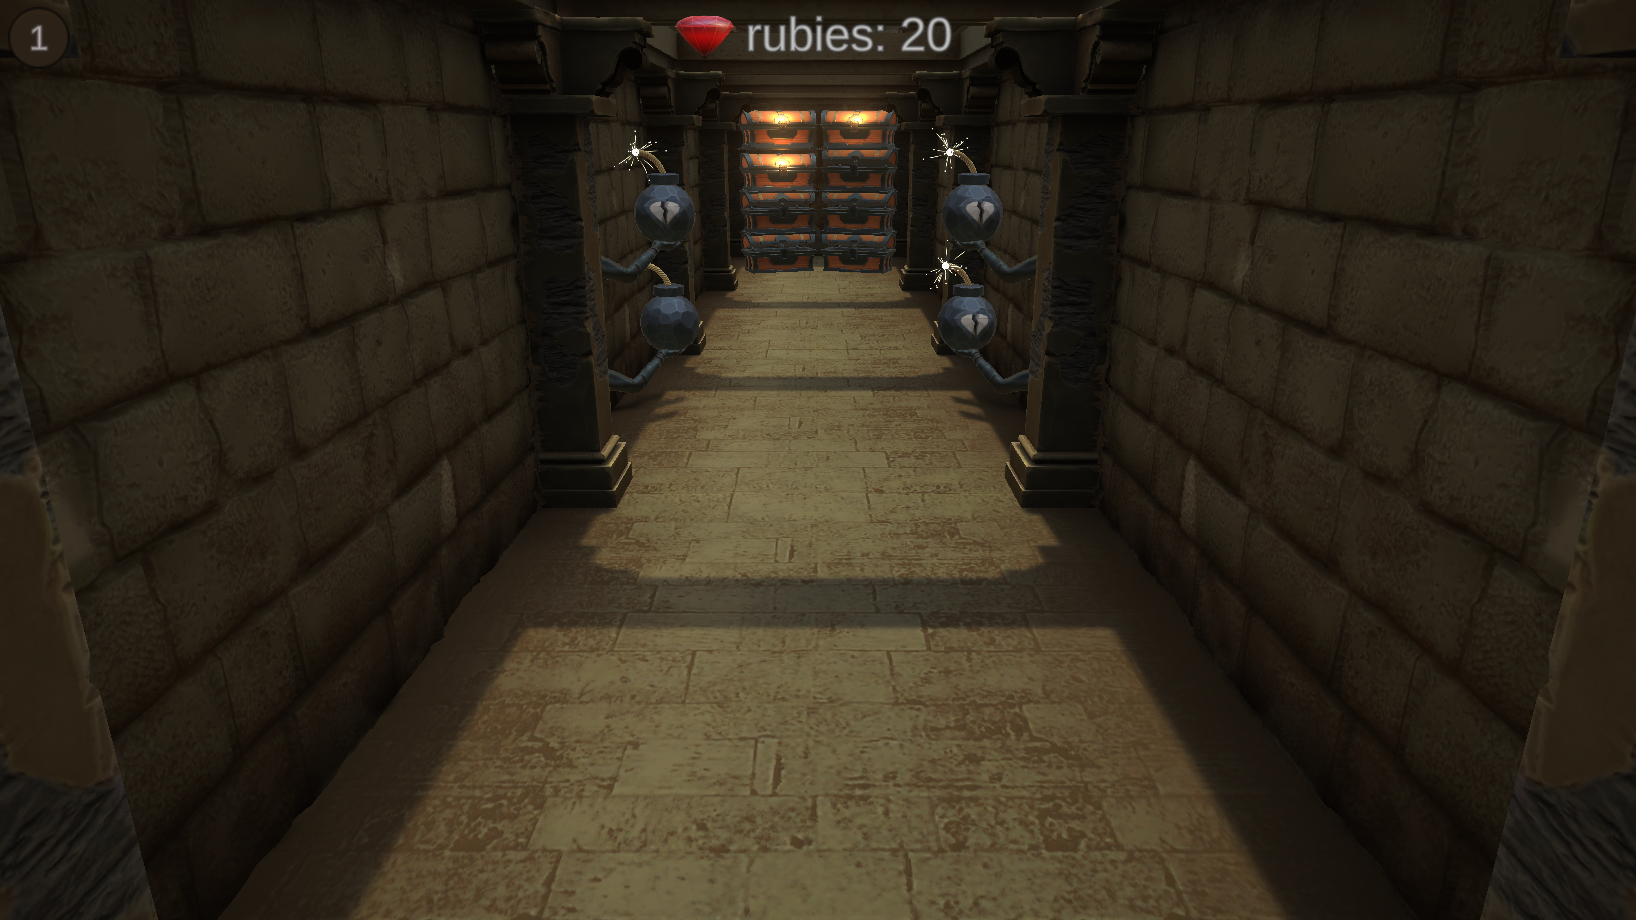
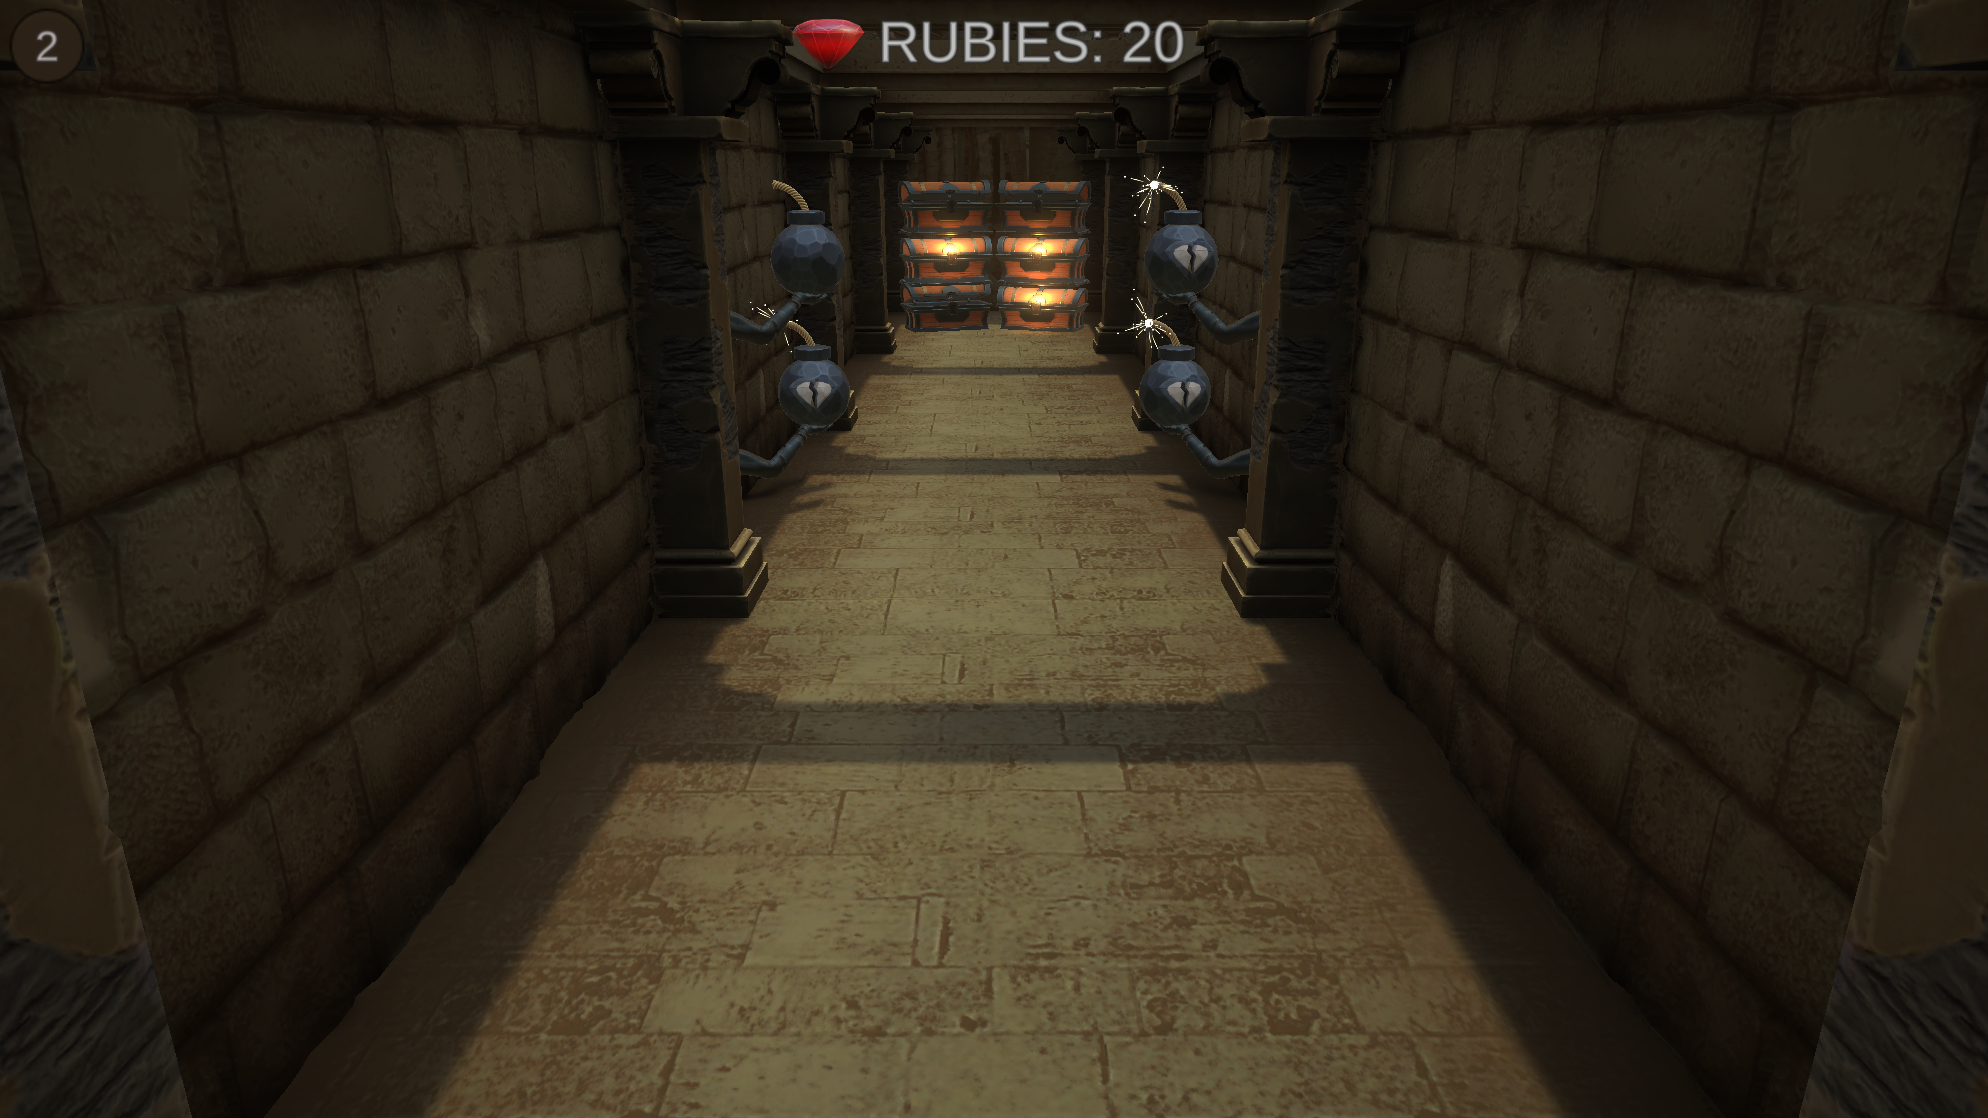
Weekly update
New algorithm for randomizing events
New JSON:
+ time_for_decision
+ cost_for_no_decision
+ minimum_error
+ goal_description
- allowed_error_from_target_ratio
- rubies_goal
- real_reward

diff --git a/NeuroPaceUnityProject/Assets/Scripts/GameBrain.cs b/NeuroPaceUnityProject/Assets/Scripts/GameBrain.cs
@@ -82,9 +82,9 @@ public class GameBrain : MonoBehaviour
 
     private int rubies = 20;
     public int trials_count = 0;
-    public int trials_where_player_went_forward = 0;
-    public int trials_that_exploded_so_far = 0;
-    public int trials_that_rewarded_so_far = 0;
+    public int trials_performed = 0;
+    public int explosions_performed = 0;
+    public int keys_performed = 0;
     private float explosion_avg_chance = 0;
     private float key_avg_chance = 0;
 
@@ -214,10 +214,10 @@ public class GameBrain : MonoBehaviour
                 SaveTimestamp(2);
                 animatorCam.SetTrigger("try");
                 ui.printDescription("");
-                trials_where_player_went_forward += 1;
+                trials_performed += 1;
                 actionWalk.Play();
                 decision = 1;
-                //ScreenCapture.CaptureScreenshot("SomeLevel.png", 2);
+                ScreenCapture.CaptureScreenshot("SomeLevel2.png", 2);
             }
             else if (Keyboard.current.rightArrowKey.isPressed || (Gamepad.current != null && Gamepad.current.bButton.isPressed))
             {
@@ -247,19 +247,17 @@ public class GameBrain : MonoBehaviour
                 trials_where_zero_bombs_lit += 1;
         }
         trials_count = game_params.trial_types.Count * game_params.game_settings.number_of_trials_per_trial_type;
-        //explosion_avg_chance = (float)game_params.game_settings.trials_to_explode / (float)(trials_count - (trials_where_zero_bombs_lit * game_params.game_settings.number_of_trials_per_trial_type));
-        //key_avg_chance = (float)game_params.game_settings.trials_to_show_key / (float)(trials_count - game_params.game_settings.trials_to_explode);
-        explosion_avg_chance = (float)game_params.game_settings.trials_to_explode / (float)(trials_count - (trials_where_zero_bombs_lit * game_params.game_settings.number_of_trials_per_trial_type));
+        explosion_avg_chance = (float)game_params.game_settings.trials_to_explode / (float)(trials_count);
         key_avg_chance = (float)game_params.game_settings.trials_to_show_key / (float)(trials_count - game_params.game_settings.trials_to_explode);
         Debug.Log("Params Loaded");
-
+        /*
         string output = "";
         output += $"\nexplosion_avg_chance: {explosion_avg_chance}, key_avg_chance: {key_avg_chance}";
         output += $"\nall: {trials_count}, to explode: {game_params.game_settings.trials_to_explode}, to reward: {game_params.game_settings.trials_to_show_key}";
         for (int i = 0; i < 5; i++)
             output += "\n" + DebugChances();
         Debug.Log(output);
-            
+        */
     }
 
     private string DebugChances()
@@ -269,12 +267,12 @@ public class GameBrain : MonoBehaviour
         int rewarded = 0;
         for(int i=0; i<trials_count; i++)
         {
+            float phase = (float)i / (trials_count - 1);
             TrialType this_trial = trials_pool[i];
-            if (this_trial.bombs_lit != 0 && PlayEvent(explosion_avg_chance, i, exploded)) exploded += 1;
-            else if (PlayEvent(key_avg_chance, i, rewarded))
-            {
+            if (this_trial.bombs_lit != 0 && PlayEvent2(phase, explosion_avg_chance, i, exploded, game_params.game_settings.trials_to_explode))
+                exploded += 1;
+            else if (PlayEvent2(phase, key_avg_chance, i, rewarded, game_params.game_settings.trials_to_show_key))
                 rewarded += 1;
-            }
         }
         return $"DEBUG: trials: {trials_count}, exploded: {exploded}, rewarded: {rewarded}";
     }
@@ -287,7 +285,7 @@ public class GameBrain : MonoBehaviour
         current_trial = -1;
         // start camera
         animatorCam.SetFloat("mul", 1);
-        NewRound();        
+        NewRound();
     }
 
     private void NewRound()
@@ -349,23 +347,18 @@ public class GameBrain : MonoBehaviour
 
     public void CheckBombs()
     {
-        if (current_trial_type.bombs_lit != 0 && PlayEvent(explosion_avg_chance, trials_where_player_went_forward, trials_that_exploded_so_far))
+        float phase = (float)current_trial / (trials_count - 1);
+        if (current_trial_type.bombs_lit != 0 && PlayEvent2(phase, explosion_avg_chance, trials_performed, explosions_performed, game_params.game_settings.trials_to_explode))
         {
             //Debug.Log("Boom!");
-
-            trials_that_exploded_so_far += 1;
+            explosions_performed += 1;
             animatorCam.Play("CameraExplode", 0, 0f);
             outcome = -current_trial_type.bombs_lit * game_params.game_settings.cost_for_bomb_explosion;
             rubies += outcome;
             ui.rubiesTarget = rubies;
             string desc = (Mathf.Abs(outcome) == 1) ? " RUBY!" : " RUBIES!";
             ui.printInfo(outcome + desc);
-            /*
-            foreach (GameObject bomb in bombsAll)
-            {
-                foreach(ParticleSystem ps in bomb.GetComponentsInChildren<ParticleSystem>())
-                    ps.Play();
-            }*/
+
             for (int i = 0; i < Mathf.Abs(outcome); i++)
                 Instantiate(RubyLost, rubiesUIParent);
             bombParent.GetComponent<AudioSource>().Play();
@@ -380,13 +373,13 @@ public class GameBrain : MonoBehaviour
         foreach (GameObject chest in chestsLit)
         {
             chest.GetComponent<Animator>().SetTrigger("open");
-            //chest.GetComponent<ParticleSystem>().Play();
         }
 
-        if (PlayEvent(key_avg_chance, trials_where_player_went_forward, trials_that_rewarded_so_far))
+        float phase = (float)current_trial / (trials_count - 1);
+        if (PlayEvent2(phase, key_avg_chance, trials_performed, keys_performed, game_params.game_settings.trials_to_show_key))
         {
             //Debug.Log("Rubies!");
-            trials_that_rewarded_so_far += 1;
+            keys_performed += 1;
             outcome = current_trial_type.chests_lit * game_params.game_settings.reward_for_chest;
             rubies += outcome;
             ui.rubiesTarget = rubies;
@@ -410,18 +403,19 @@ public class GameBrain : MonoBehaviour
             GameObject.Destroy(rubiesUIParent.GetChild(i).gameObject);
     }
 
-    public bool PlayEvent(float event_avg_chance, float trials_where_player_went_forward, float events_that_played_so_far)
-    {        
-        float a = Mathf.Abs((events_that_played_so_far + 1) / ((float)trials_where_player_went_forward) - event_avg_chance);
-        float b = Mathf.Abs((events_that_played_so_far    ) / ((float)trials_where_player_went_forward) - event_avg_chance);
-        float t = ((float)current_trial) / ((float)trials_count - 1);
-        float epsilon = Mathf.Lerp(game_params.game_settings.allowed_error_from_target_ratio[0], game_params.game_settings.allowed_error_from_target_ratio[1], t);
-        //Debug.Log("x: " + a.ToString() + " y: " + b.ToString() + " t: " + t + " epsilon: " + epsilon.ToString());
+    public bool PlayEvent2(float phase, float event_avg_chance, int trials_performed, int events_performed, int events_expected) 
+    {
+        //Debug.Log($"{phase} {event_avg_chance} {trials_performed} {events_performed} {events_expected}");
+        float interpolated_chance = event_avg_chance;
+        float designed_events_count = phase * events_expected;
+        float ratio = designed_events_count / (events_performed + 1);
 
-        if (Mathf.Abs(a - b) > epsilon)
-            return Random.value > 0.5f;
-        else
-            return a < b;
+        if (ratio > 1)
+            interpolated_chance = Mathf.Lerp(event_avg_chance, 1 - game_params.game_settings.minimum_error, ratio);
+        else if (ratio < 1)
+            interpolated_chance = Mathf.Lerp(event_avg_chance, game_params.game_settings.minimum_error, 1 - ratio);
+
+        return (Random.value < interpolated_chance);
     }
 
     private void FillTrialsPool()
@@ -590,9 +584,11 @@ public class GameSettings
     public int cost_for_bomb_explosion;
     public int trials_to_explode;
     public int trials_to_show_key;
-    public List<float> allowed_error_from_target_ratio;
-    public int rubies_goal;
-    public string real_reward;
+    public float minimum_error;
+    public int time_for_decision;
+    public int cost_for_no_decision;
+    public string goal_description;
+    public string reward_description;
 }
 
 public class GameParams

diff --git a/NeuroPaceUnityProject/Assets/Scripts/FillDescription.cs b/NeuroPaceUnityProject/Assets/Scripts/FillDescription.cs
@@ -23,10 +23,9 @@ public class FillDescription : MonoBehaviour
         {
             string parsedText = textField.text;
             parsedText = parsedText.Replace("{trialsCount}", $"{gb.trials_count}");
-            parsedText = parsedText.Replace("{rubiesGoal}", $"{gb.game_params.game_settings.rubies_goal}");
-            parsedText = parsedText.Replace("{realReward}", $"{gb.game_params.game_settings.real_reward}");
-            parsedText = parsedText.Replace("{KeyToSkip}", $"{gb.key_skip}"); //--
-            parsedText = parsedText.Replace("{KeyToTry}", $"{gb.key_try}"); //--
+            parsedText = parsedText.Replace("{goalDescription}", $"{gb.game_params.game_settings.goal_description}");
+            parsedText = parsedText.Replace("{KeyToSkip}", $"{gb.key_skip}");
+            parsedText = parsedText.Replace("{KeyToTry}", $"{gb.key_try}");
             textField.text = parsedText;
             filled = true;
         }
